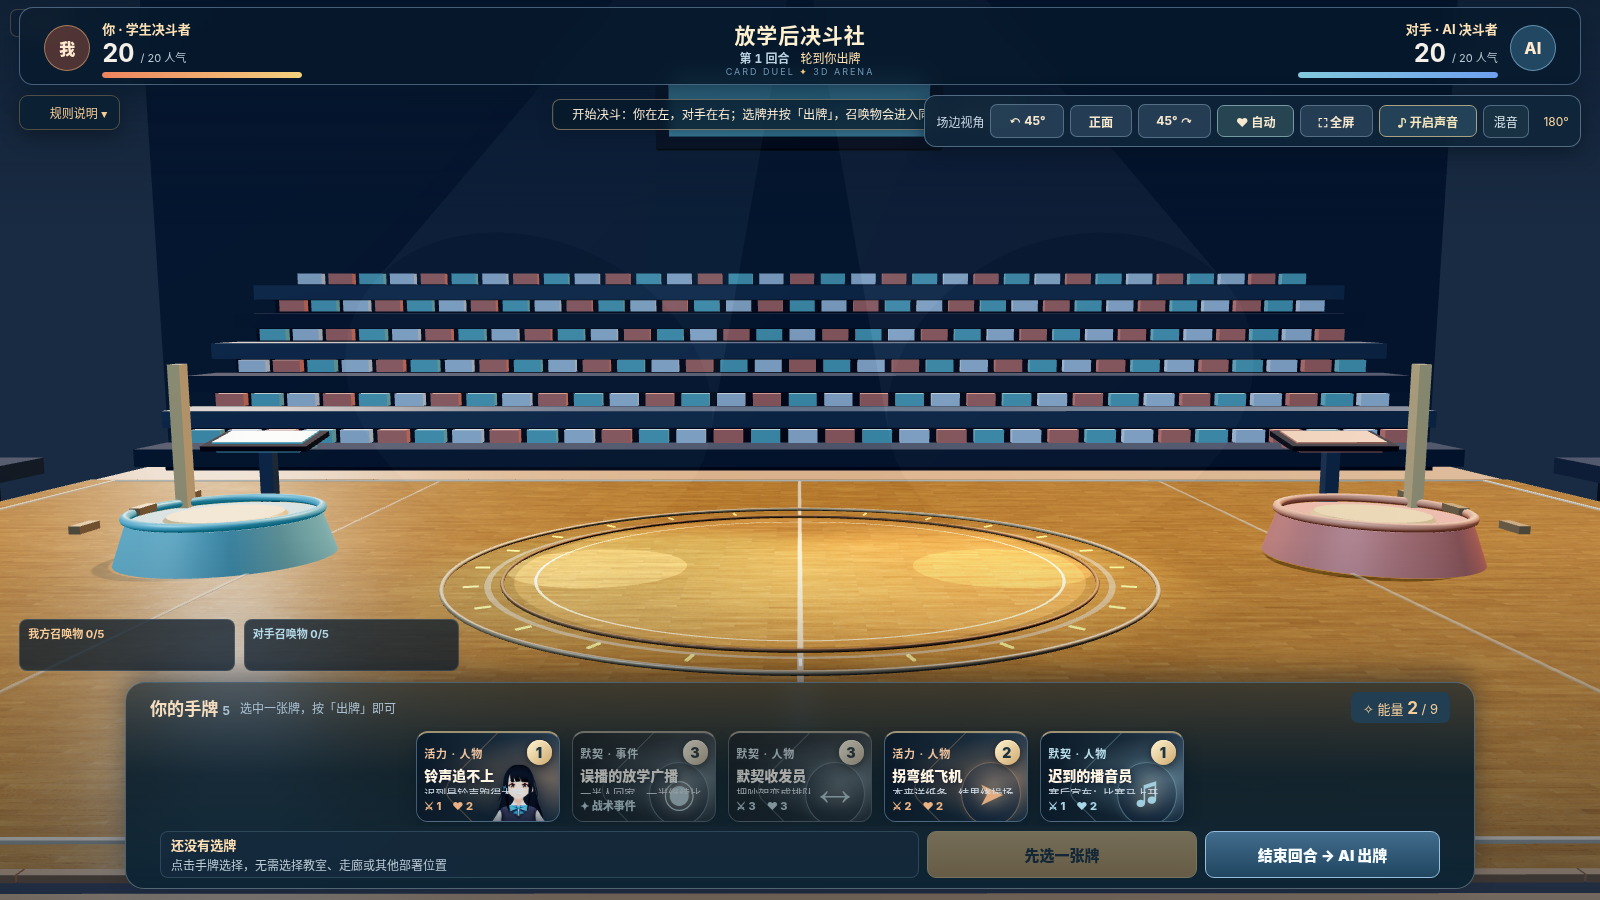
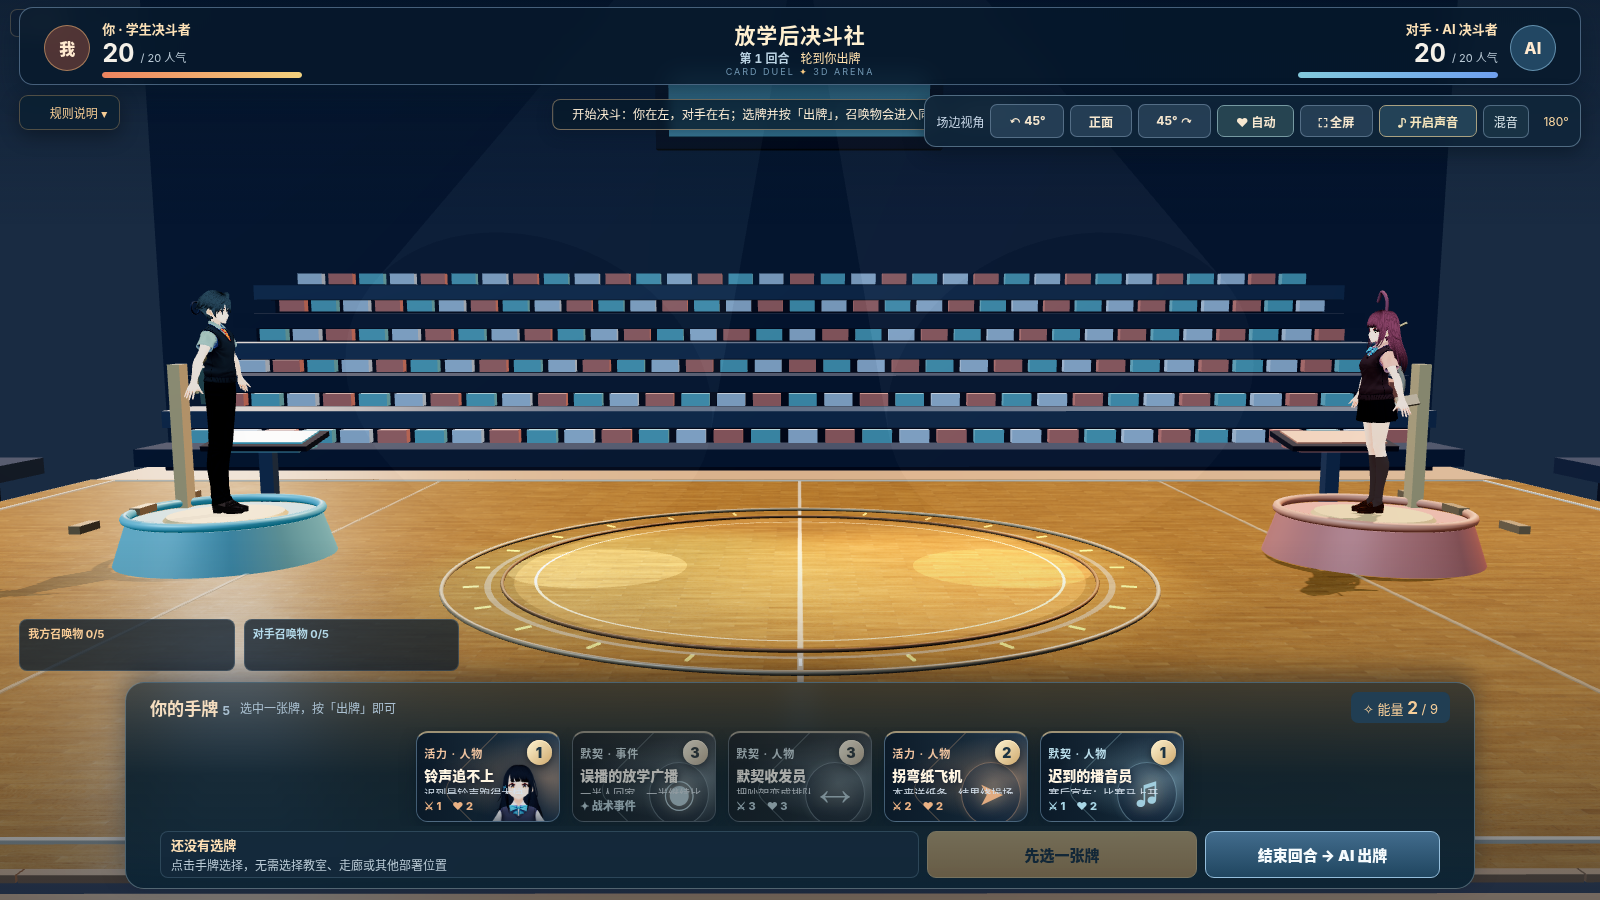
R74 keep two real 3D duelists permanently visible independently of summoned cards

diff --git a/r45-duel/R74_SIDELINE_CAMERA_RECAST.md b/r45-duel/R74_SIDELINE_CAMERA_RECAST.md
@@ -8,7 +8,7 @@
 
 问题定位：R73 每帧执行 `height=(narrow?7.65:Math.max(8.35,distance*.66))`，镜头实际高度 8.35+，从屋顶看馆内。大面积顶棚和桁架容易挡住中央召唤动作，场边决斗者显得小。R74 改为 `SPECTATOR_EYE_HEIGHT=2.42`，焦点 `(0,1.22,-.55)`，俯角硬上限 7.5°；宽屏横幅自动拉远以容纳两位站台角色、竖屏只调整水平距离而不升高机位；0/±45/90/180° 自由环绕和滚轮缩放仍保留。顶部操作栏明确标注「场边视角」「场边平视」。
 
-真实 Z890 Nvidia Vulkan 测试 `qa/browser-r74-sideline-camera.mjs`：桌面 1600×900 与竖屏 430×900、0/±45/90/180° 共 10/10 组通过。桌面俯角约 6°，竖屏 2.5–2.9°，眼高始终 2.42；真实相机环绕目标、中央地面投影都在视野。`qa/browser-r62-scale-audit.mjs` 仍保持 16 组真实角色尺寸、对面朝向、接地和画面边界测试全部通过；R51 实战战斗 4/4、Qwen3-TTS 2/2 不变。原游戏 19 卡全部保留。
+真实 Z890 Nvidia Vulkan 测试 `qa/browser-r74-sideline-camera.mjs`：桌面 1600×900 与竖屏 430×900、0/±45/90/180° 共 10/10 组通过。桌面俯角约 6°，竖屏 2.5–2.9°，眼高始终 2.42；真实相机环绕目标、中央地面投影都在视野。`qa/browser-r62-scale-audit.mjs` 仍保持 16 组真实角色尺寸、对面朝向、接地和画面边界测试全部通过；R51 实战战斗 4/4、Qwen3-TTS 2/2 不变。原游戏 19 卡全部保留。额外修复更深层的历史问题：`SummonPresence` 会根据卡牌是否召唤来隐藏 E01/G01 原始 VRM，因此不能简单设置 `pivot.visible=true`；现在在两侧原始站台独立克隆 E01/G01 真实 VRM 骨架，作为**常驻决斗者**，原 VRM 仍归召唤池单独控制，两种角色不相互抢占。浏览器验收强制要求场边站台上两名真实人物同时可见、骨架完整，并在多角度中留在镜头范围内。
 
 主页面本机预览：`http://127.0.0.1:11005/r45-duel/`（非公开站）。
 
